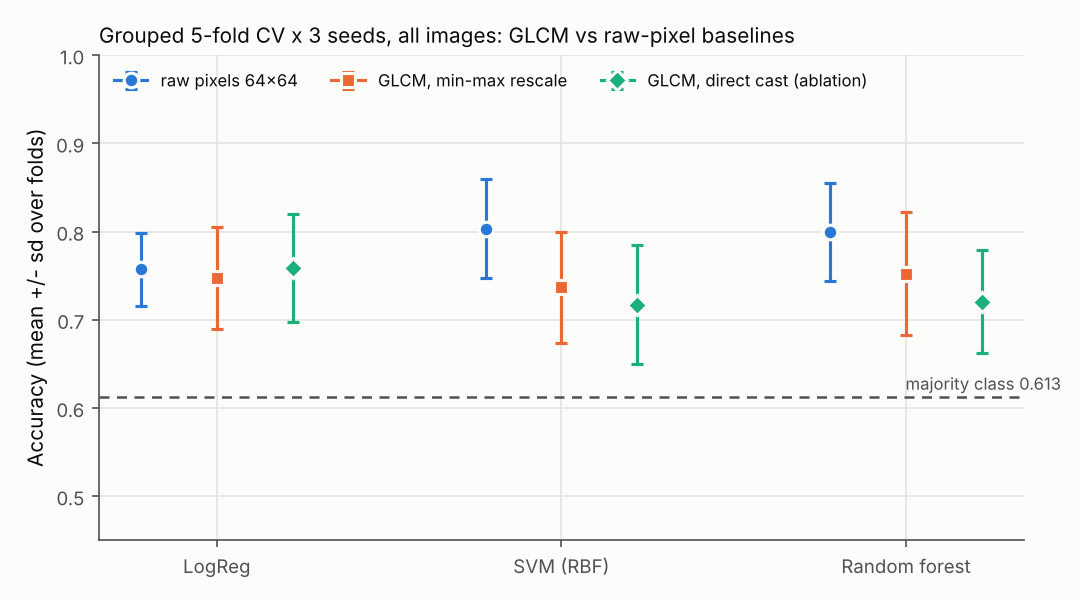
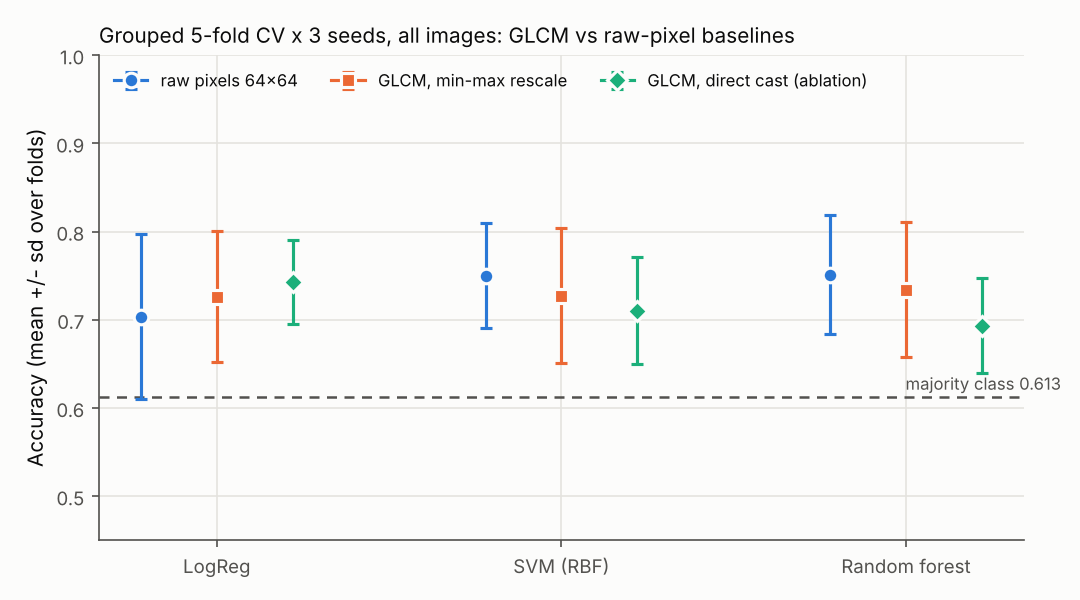
Re-run the Part A cross-validation with near copies grouped; regenerate tables and figure

diff --git a/README.md b/README.md
@@ -12,7 +12,7 @@ I take brain MRI images through six image filters and a texture-feature step, ru
 - **What it is:** a Python pipeline that loads brain MRI images, applies 6 filters to each one, turns the results into texture numbers (GLCM features), and trains simple classifiers on them.
 - **The problem:** the filtering is slow, so I split the work across CPU cores. The real question is how much time that saves, and why not more.
 - **How it works:** images in, then 6 filters per image in parallel worker processes, then 168 texture features per image, then cross-validated models compared with simple baselines. Out come CSV/JSON results, tables and charts.
-- **Main result:** on a 4-core machine the parallel version gives identical outputs and runs 2.34x faster on the real images, and up to 3.84x when every image has the same size, because very uneven image sizes are the main limit. The texture features do not beat a simple model on raw pixels (0.752 vs 0.803 accuracy).
+- **Main result:** on a 4-core machine the parallel version gives identical outputs and runs 2.34x faster on the real images, and up to 3.84x when every image has the same size, because very uneven image sizes are the main limit. The texture features do not beat a simple model on raw pixels (0.734 vs 0.750 accuracy).
 - **Part B:** on a larger public 4-class dataset, 542 of 1,600 Testing images have a near-duplicate candidate in Training (431 at pixel correlation >= 0.99), concentrated in the no-tumour class (358 of 400). On the provided split, GLCM + random forest reaches 0.872 accuracy and a small CNN 0.765; both are lower on the reduced test set (0.816 and 0.705), which also has a different class mix. The best filter speedup is 4.69x at 10 processes on a 6-core laptop (see [Part B](#part-b-a-larger-4-class-dataset)).
 - **Why it matters:** it shows how I find the slow part of a data pipeline, parallelise it safely, and check my own numbers before quoting them.
 
@@ -24,7 +24,7 @@ I take brain MRI images through six image filters and a texture-feature step, ru
 |---|---|---|
 | Part A speedup (4-vCPU cloud VM, fast mode, 40 images, 4 processes) | 2.34x with native image sizes, 3.24x with images resized to 256x256 | `results/scaling_summary.csv`, `results/scaling_summary_resized_256.csv` |
 | Parallel = sequential | identical outputs for every filter in every configuration, Part A and Part B | `results/parallel_equivalence*.json`, `results/part_b/parallel_equivalence.json` |
-| GLCM vs raw pixels (Part A, grouped 5-fold CV x 3 seeds) | GLCM + random forest 0.752 vs raw pixels + SVM 0.803 accuracy | `results/ml_cv_summary.csv` |
+| GLCM vs raw pixels (Part A, grouped 5-fold CV x 3 seeds) | GLCM + random forest 0.734 vs raw pixels + SVM 0.750 accuracy | `results/ml_cv_summary.csv` |
 | Part B leakage | 542 of 1,600 Testing images have a near-duplicate candidate in Training; no-tumour 358 of 400 | `results/part_b/leakage_by_class.json` |
 | Part B accuracy (3 seeds) | provided split: GLCM + random forest 0.872, small CNN 0.765; without flagged images: 0.816 and 0.705 (different class mix) | `results/part_b/per_class_summary.csv` |
 | Part B speedup (6-core laptop, 200 images at 256x256) | 4.69x at 10 processes, 3.48x at 6 | `results/part_b/scaling_summary.csv` |
@@ -81,23 +81,23 @@ On the 4-vCPU cloud VM, `Pool.map` reaches 2.34x on 4 processes with the images 
 ### Classifiers vs baselines
 
 <!-- BEGIN:ml -->
-253 images, 5-fold stratified CV grouped by file hash, seeds 0, 1, 2, mean +/- sd over 15 folds (`results/ml_cv_summary.csv`)
+253 images, 5-fold stratified CV grouped by exact and near copies, seeds 0, 1, 2, mean +/- sd over 15 folds (`results/ml_cv_summary.csv`)
 
 | Features | Model | Accuracy | Macro F1 | Tumour recall |
 |---|---|---:|---:|---:|
 | none | Majority class | 0.613 +/- 0.006 | 0.380 +/- 0.002 | 1.000 +/- 0.000 |
-| raw pixels 64x64 | LogReg | 0.757 +/- 0.041 | 0.741 +/- 0.042 | 0.817 +/- 0.087 |
-| raw pixels 64x64 | SVM (RBF) | 0.803 +/- 0.056 | 0.781 +/- 0.060 | 0.914 +/- 0.079 |
-| raw pixels 64x64 | Random forest | 0.799 +/- 0.056 | 0.782 +/- 0.062 | 0.882 +/- 0.057 |
-| GLCM, min-max rescale | LogReg | 0.747 +/- 0.058 | 0.722 +/- 0.067 | 0.845 +/- 0.057 |
-| GLCM, min-max rescale | SVM (RBF) | 0.737 +/- 0.063 | 0.707 +/- 0.073 | 0.850 +/- 0.072 |
-| GLCM, min-max rescale | Random forest | 0.752 +/- 0.070 | 0.731 +/- 0.075 | 0.834 +/- 0.094 |
-| GLCM, direct uint8 cast (ablation) | LogReg | 0.759 +/- 0.062 | 0.733 +/- 0.067 | 0.865 +/- 0.088 |
-| GLCM, direct uint8 cast (ablation) | SVM (RBF) | 0.717 +/- 0.068 | 0.684 +/- 0.081 | 0.837 +/- 0.075 |
-| GLCM, direct uint8 cast (ablation) | Random forest | 0.721 +/- 0.058 | 0.691 +/- 0.063 | 0.834 +/- 0.081 |
+| raw pixels 64x64 | LogReg | 0.704 +/- 0.094 | 0.678 +/- 0.106 | 0.776 +/- 0.115 |
+| raw pixels 64x64 | SVM (RBF) | 0.750 +/- 0.060 | 0.715 +/- 0.075 | 0.882 +/- 0.074 |
+| raw pixels 64x64 | Random forest | 0.751 +/- 0.067 | 0.726 +/- 0.077 | 0.847 +/- 0.073 |
+| GLCM, min-max rescale | LogReg | 0.726 +/- 0.074 | 0.698 +/- 0.082 | 0.834 +/- 0.068 |
+| GLCM, min-max rescale | SVM (RBF) | 0.728 +/- 0.076 | 0.696 +/- 0.085 | 0.847 +/- 0.088 |
+| GLCM, min-max rescale | Random forest | 0.734 +/- 0.076 | 0.712 +/- 0.080 | 0.822 +/- 0.099 |
+| GLCM, direct uint8 cast (ablation) | LogReg | 0.743 +/- 0.048 | 0.715 +/- 0.055 | 0.852 +/- 0.063 |
+| GLCM, direct uint8 cast (ablation) | SVM (RBF) | 0.710 +/- 0.061 | 0.675 +/- 0.063 | 0.843 +/- 0.088 |
+| GLCM, direct uint8 cast (ablation) | Random forest | 0.693 +/- 0.054 | 0.665 +/- 0.056 | 0.798 +/- 0.080 |
 <!-- END:ml -->
 
-**Plain conclusion:** the GLCM texture features do **not** beat raw pixels. The best raw-pixel models (SVM 0.803, random forest 0.799) are ahead of every GLCM model (0.717 to 0.759). All models beat the majority-class baseline (0.613). The rescale ablation and the leaky cross-validation comparison are in [docs/RESULTS.md](docs/RESULTS.md#rescale-ablation-and-leaky-cross-validation).
+**Plain conclusion:** the GLCM texture features do **not** beat raw pixels. The best raw-pixel models (SVM 0.750, random forest 0.751) are ahead of every GLCM model (0.693 to 0.743). All models beat the majority-class baseline (0.613). The rescale ablation and the leaky cross-validation comparison are in [docs/RESULTS.md](docs/RESULTS.md#rescale-ablation-and-leaky-cross-validation).
 
 ## Part B: a larger 4-class dataset
 

diff --git a/docs/RESULTS.md b/docs/RESULTS.md
@@ -135,25 +135,25 @@ Parallel outputs were identical to sequential outputs (`np.array_equal` and `np.
 
 The cross-validation table itself is in the [README](../README.md#classifiers-vs-baselines).
 
-Rescale ablation (direct uint8 cast vs per-filter min-max): the rows marked "direct uint8 cast (ablation)" feed the GLCM step with `(image * 255).astype(np.uint8)` instead of the min-max rescale. Min-max is ahead for the SVM (0.737 vs 0.717) and the random forest (0.752 vs 0.721) but not for logistic regression (0.747 vs 0.759), and all those differences are inside one standard deviation.
+Rescale ablation (direct uint8 cast vs per-filter min-max): the rows marked "direct uint8 cast (ablation)" feed the GLCM step with `(image * 255).astype(np.uint8)` instead of the min-max rescale. Min-max is ahead for the SVM (0.728 vs 0.710) and the random forest (0.734 vs 0.693) but not for logistic regression (0.726 vs 0.743), and all those differences are inside one standard deviation.
 
-How much the duplicate files would have flattered the scores (same models, plain stratified folds that ignore duplicates):
+The cross-validation groups join exact copies and near copies (dHash and pHash both within 4 bits, the Part B rule): 33 near-copy pairs that are not exact copies are merged, which leaves 207 groups for 253 images (`results/ml_meta.json`). How much those copies would have flattered the scores (same models, plain stratified folds that ignore the groups):
 
 <!-- BEGIN:leakage -->
 | Features | Model | Accuracy, grouped CV | Accuracy, leaky CV | Difference |
 |---|---|---:|---:|---:|
-| raw pixels 64x64 | LogReg | 0.757 | 0.761 | +0.004 |
-| raw pixels 64x64 | SVM (RBF) | 0.803 | 0.809 | +0.006 |
-| raw pixels 64x64 | Random forest | 0.799 | 0.820 | +0.020 |
-| GLCM, min-max rescale | LogReg | 0.747 | 0.740 | -0.007 |
-| GLCM, min-max rescale | SVM (RBF) | 0.737 | 0.744 | +0.008 |
-| GLCM, min-max rescale | Random forest | 0.752 | 0.776 | +0.024 |
-| GLCM, direct uint8 cast (ablation) | LogReg | 0.759 | 0.768 | +0.009 |
-| GLCM, direct uint8 cast (ablation) | SVM (RBF) | 0.717 | 0.727 | +0.010 |
-| GLCM, direct uint8 cast (ablation) | Random forest | 0.721 | 0.748 | +0.028 |
+| raw pixels 64x64 | LogReg | 0.704 | 0.761 | +0.058 |
+| raw pixels 64x64 | SVM (RBF) | 0.750 | 0.809 | +0.059 |
+| raw pixels 64x64 | Random forest | 0.751 | 0.820 | +0.068 |
+| GLCM, min-max rescale | LogReg | 0.726 | 0.740 | +0.014 |
+| GLCM, min-max rescale | SVM (RBF) | 0.728 | 0.744 | +0.017 |
+| GLCM, min-max rescale | Random forest | 0.734 | 0.776 | +0.042 |
+| GLCM, direct uint8 cast (ablation) | LogReg | 0.743 | 0.768 | +0.025 |
+| GLCM, direct uint8 cast (ablation) | SVM (RBF) | 0.710 | 0.727 | +0.017 |
+| GLCM, direct uint8 cast (ablation) | Random forest | 0.693 | 0.748 | +0.055 |
 <!-- END:leakage -->
 
-The random forest gains the most from leaked duplicates (see the Difference column), because it can memorise an exact copy it saw in training.
+Raw pixels gain the most from leaked copies (see the Difference column), so a split that lets copies cross over flatters the raw-pixel baseline most.
 
 ## Part B: the larger 4-class dataset
 
